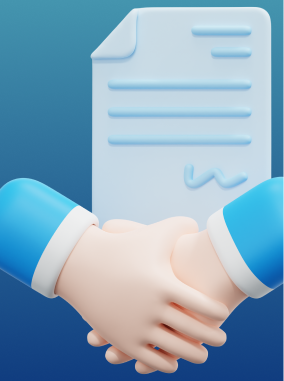
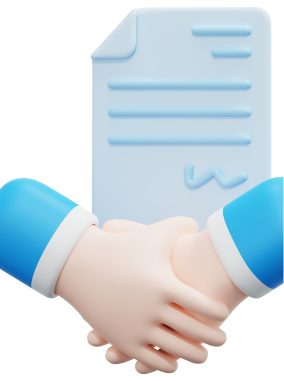
fix img solution sectiion, title timeline

diff --git a/src/App.jsx b/src/App.jsx
@@ -113,7 +113,7 @@ export const Market = () => {
 }
 const Solutions = () => {
   const [current, setCurrent] = useState({
-    img: "/images/Rectangle 46.png",
+    img: "/images/Rectangle 49.png",
     desc: ["Planing for Success", "Token Launch Strategy", "Resource Planing"],
   })
   const { width } = useWindowSize()
@@ -121,7 +121,7 @@ const Solutions = () => {
     {
       btn: "Strategic Planing",
       data: {
-        img: "/images/Rectangle 46.png",
+        img: "/images/Rectangle 49.png",
         desc: ["Planing for Success", "Token Launch Strategy", "Resource Planing"],
       },
     },
@@ -185,9 +185,9 @@ const Solutions = () => {
               className={`" flexCenter gap-x-8 rounded-[22px]  bg-gradient-to-b from-[#655AAC] to-[#383066] p-5 -skew-x-[10deg] xs:skew-x-0 md:-skew-x-[6deg] lg:-skew-x-[7deg] sm:-skew-x-[4deg] ${width < 900 && " flex-col "
                 } "`}
             >
-              <div className="max-w-[30%] overflow-hidden w-[350px]  aspect-[0.6] bg-center bg-no-repeat rounded-[20px] xs:max-w-full sm:max-w-full md:max-w-[50%] lg:max-w-[50%]   ">
+              <div className="max-w-[30%] overflow-hidden w-[350px] grid place-items-center aspect-[0.6] bg-gradient-to-b from-[#4495AE] to-[#103D80] bg-center bg-no-repeat rounded-[20px] xs:max-w-full sm:max-w-full md:max-w-[50%] lg:max-w-[50%]   ">
                 <img
-                  className=" scale-[1] w-[350px] aspect-[0.6] rounded-[22px] "
+                  className="  skew-x-[10deg] "
                   src={current.img}
                   alt=""
                 />{" "}
@@ -201,7 +201,7 @@ const Solutions = () => {
                     key={i}
                     className=" text-center  bg-gradient-to-b from-[#444] to-[#222] w-full block -skew-x-[20deg]  rounded-[12px]   "
                   >
-                    <h2 className="text-[26px] font-extrabold  py-3 skew-x-[20deg]">
+                    <h2 className="text-[26px] font-extrabold  py-3 skew-x-[28deg]">
                       {item}
                     </h2>
                   </div>
@@ -709,7 +709,7 @@ function App() {
                     <h4 className="text-[60px] text-[#9BDBFF] font-extrabold flex items-center gap-x-10 pl-[120px] xs:pl-2 xs:text-[42px] sm:pl-3 md:pl-0 md:block lg:block lg:pl-0 xl:pl-10 ">
                       WEEK 3-4
                       <img
-                        className={`" max-w-[70% h-[25px] xl:max-w-[60%] 2xl:max-w-[60%] ${width < 1000 ? "w-0" : "w-full"
+                        className={`" max-w-[70% h-[25px] xl:max-w-[60%] 2xl:max-w-[60%] ${width < 1000 ? "w-0" : "w-[70%]"
                           } "`}
                         src="/images/Line 25.png"
                         alt=""
